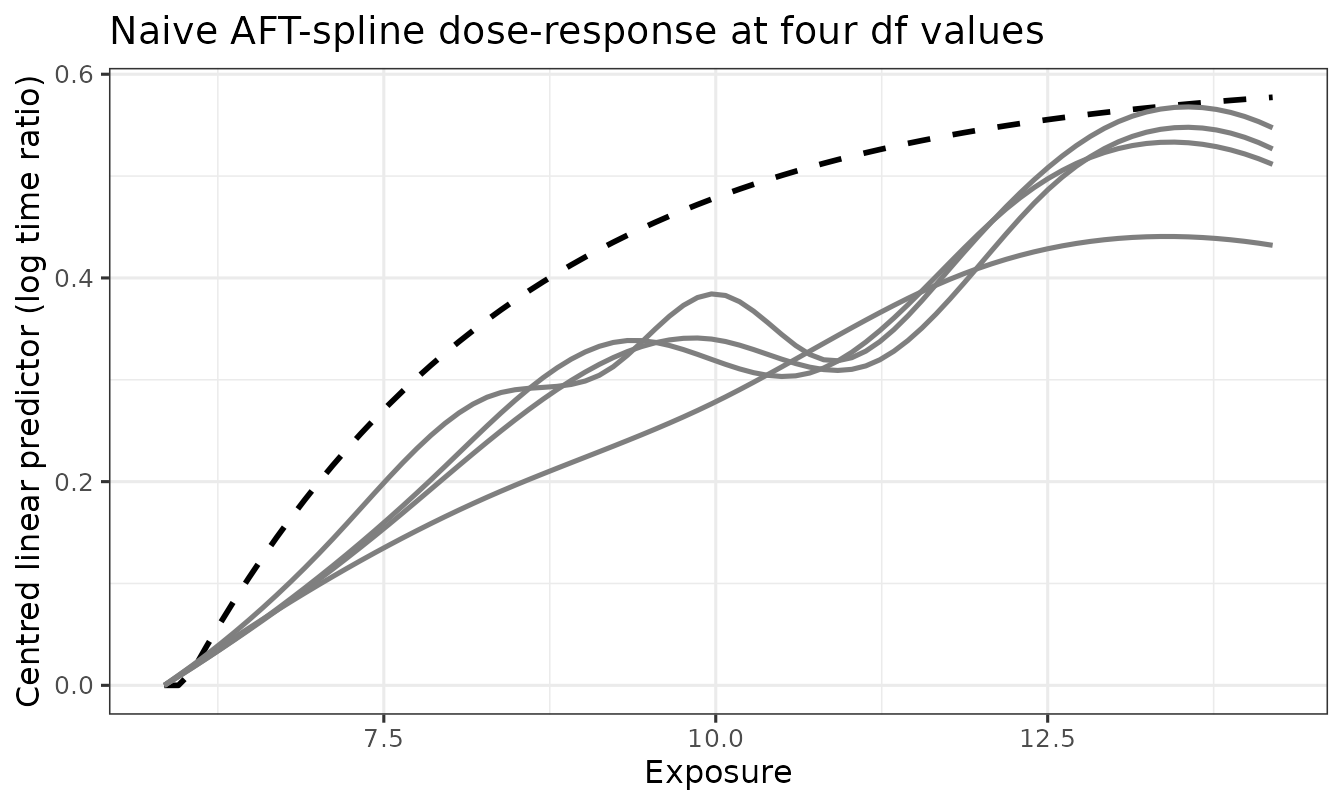
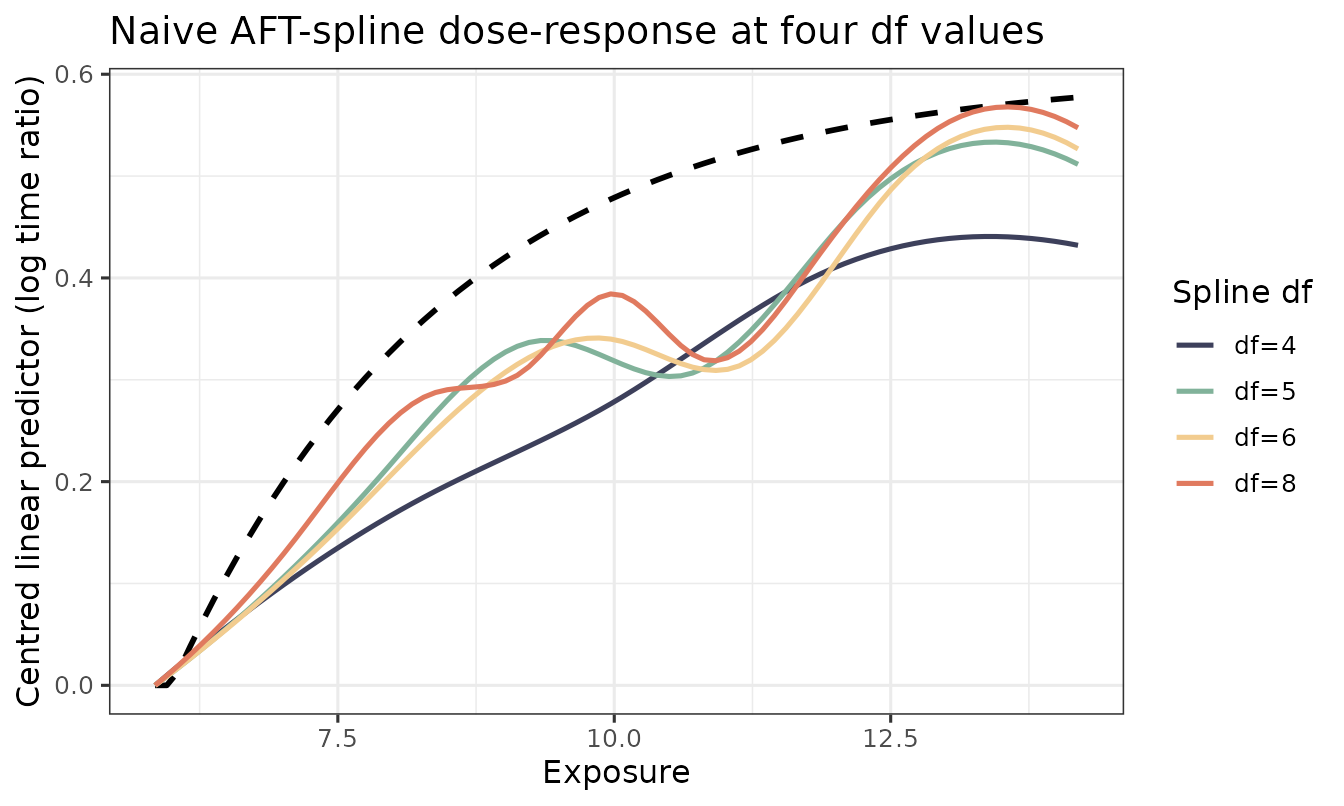
Deploying to gh-pages from @ QihuangZhang/aftsplex@91c02a28ec75cad7dcd761bc9a9617f481bcd8ae 🚀

diff --git a/articles/sensitivity-df.html b/articles/sensitivity-df.html
@@ -132,12 +132,14 @@ fit because higher <code>df</code> reduces smoothing bias for
 <span>  <span class="va">lp</span> <span class="op">-</span> <span class="va">lp</span><span class="op">[</span><span class="fl">1</span><span class="op">]</span></span>
 <span><span class="op">}</span><span class="op">)</span></span></code></pre></div>
 <div class="sourceCode" id="cb4"><pre class="downlit sourceCode r">
-<code class="sourceCode R"><span><span class="fu"><a href="../reference/plot_curves.html">plot_curves</a></span><span class="op">(</span><span class="va">x_grid</span>, <span class="va">truth</span>, fits <span class="op">=</span> <span class="va">curves</span>,</span>
-<span>            title <span class="op">=</span> <span class="st">"Naive AFT-spline dose-response at four df values"</span><span class="op">)</span></span>
-<span><span class="co">#&gt; Warning: No shared levels found between `names(values)` of the manual scale and the</span></span>
-<span><span class="co">#&gt; data's <span style="color: #00BB00;">colour</span> values.</span></span>
-<span><span class="co">#&gt; No shared levels found between `names(values)` of the manual scale and the</span></span>
-<span><span class="co">#&gt; data's <span style="color: #00BB00;">colour</span> values.</span></span></code></pre></div>
+<code class="sourceCode R"><span><span class="va">sp</span> <span class="op">&lt;-</span> <span class="fu"><a href="../reference/stagill_palette.html">stagill_palette</a></span><span class="op">(</span><span class="op">)</span></span>
+<span><span class="va">df_palette</span> <span class="op">&lt;-</span> <span class="fu"><a href="https://rdrr.io/r/stats/setNames.html" class="external-link">setNames</a></span><span class="op">(</span></span>
+<span>  <span class="fu"><a href="https://rdrr.io/r/base/unname.html" class="external-link">unname</a></span><span class="op">(</span><span class="va">sp</span><span class="op">[</span><span class="fu"><a href="https://rdrr.io/r/base/c.html" class="external-link">c</a></span><span class="op">(</span><span class="st">"TwilightIndigo"</span>, <span class="st">"MutedTeal"</span>, <span class="st">"ApricotCream"</span>, <span class="st">"BurntPeach"</span><span class="op">)</span><span class="op">]</span><span class="op">)</span>,</span>
+<span>  <span class="fu"><a href="https://rdrr.io/r/base/paste.html" class="external-link">paste0</a></span><span class="op">(</span><span class="st">"df="</span>, <span class="va">df_grid</span><span class="op">)</span></span>
+<span><span class="op">)</span></span>
+<span><span class="fu"><a href="../reference/plot_curves.html">plot_curves</a></span><span class="op">(</span><span class="va">x_grid</span>, <span class="va">truth</span>, fits <span class="op">=</span> <span class="va">curves</span>, colors <span class="op">=</span> <span class="va">df_palette</span>,</span>
+<span>            title <span class="op">=</span> <span class="st">"Naive AFT-spline dose-response at four df values"</span><span class="op">)</span> <span class="op">+</span></span>
+<span>  <span class="fu">ggplot2</span><span class="fu">::</span><span class="fu"><a href="https://ggplot2.tidyverse.org/reference/labs.html" class="external-link">labs</a></span><span class="op">(</span>color <span class="op">=</span> <span class="st">"Spline df"</span><span class="op">)</span></span></code></pre></div>
 <p><img src="sensitivity-df_files/figure-html/plot_df_grid-1.png" class="r-plt" alt="" width="672"></p>
 <p><strong>What to look for:</strong></p>
 <ul>
@@ -204,13 +206,14 @@ pipeline, but the result is much more informative for a reviewer.</p>
 <span><span class="op">}</span><span class="op">)</span></span>
 <span><span class="fu"><a href="https://rdrr.io/r/base/names.html" class="external-link">names</a></span><span class="op">(</span><span class="va">simex_curves</span><span class="op">)</span> <span class="op">&lt;-</span> <span class="fu"><a href="https://rdrr.io/r/base/paste.html" class="external-link">paste0</a></span><span class="op">(</span><span class="st">"df="</span>, <span class="va">df_show</span><span class="op">)</span></span>
 <span></span>
-<span><span class="fu"><a href="../reference/plot_curves.html">plot_curves</a></span><span class="op">(</span><span class="va">x_grid</span>, <span class="va">truth</span>, fits <span class="op">=</span> <span class="va">simex_curves</span>,</span>
+<span><span class="va">simex_palette</span> <span class="op">&lt;-</span> <span class="fu"><a href="https://rdrr.io/r/stats/setNames.html" class="external-link">setNames</a></span><span class="op">(</span></span>
+<span>  <span class="fu"><a href="https://rdrr.io/r/base/unname.html" class="external-link">unname</a></span><span class="op">(</span><span class="fu"><a href="../reference/stagill_palette.html">stagill_palette</a></span><span class="op">(</span><span class="op">)</span><span class="op">[</span><span class="fu"><a href="https://rdrr.io/r/base/c.html" class="external-link">c</a></span><span class="op">(</span><span class="st">"TwilightIndigo"</span>, <span class="st">"MutedTeal"</span>, <span class="st">"BurntPeach"</span><span class="op">)</span><span class="op">]</span><span class="op">)</span>,</span>
+<span>  <span class="fu"><a href="https://rdrr.io/r/base/names.html" class="external-link">names</a></span><span class="op">(</span><span class="va">simex_curves</span><span class="op">)</span></span>
+<span><span class="op">)</span></span>
+<span><span class="fu"><a href="../reference/plot_curves.html">plot_curves</a></span><span class="op">(</span><span class="va">x_grid</span>, <span class="va">truth</span>, fits <span class="op">=</span> <span class="va">simex_curves</span>, colors <span class="op">=</span> <span class="va">simex_palette</span>,</span>
 <span>            title <span class="op">=</span> <span class="fu"><a href="https://rdrr.io/r/base/paste.html" class="external-link">paste0</a></span><span class="op">(</span><span class="st">"SIMEX-corrected curve, df sensitivity around "</span>,</span>
-<span>                           <span class="va">df_star</span><span class="op">)</span><span class="op">)</span></span>
-<span><span class="co">#&gt; Warning: No shared levels found between `names(values)` of the manual scale and the</span></span>
-<span><span class="co">#&gt; data's <span style="color: #00BB00;">colour</span> values.</span></span>
-<span><span class="co">#&gt; No shared levels found between `names(values)` of the manual scale and the</span></span>
-<span><span class="co">#&gt; data's <span style="color: #00BB00;">colour</span> values.</span></span></code></pre></div>
+<span>                           <span class="va">df_star</span><span class="op">)</span><span class="op">)</span> <span class="op">+</span></span>
+<span>  <span class="fu">ggplot2</span><span class="fu">::</span><span class="fu"><a href="https://ggplot2.tidyverse.org/reference/labs.html" class="external-link">labs</a></span><span class="op">(</span>color <span class="op">=</span> <span class="st">"Spline df"</span><span class="op">)</span></span></code></pre></div>
 <p><img src="sensitivity-df_files/figure-html/simex_sensitivity-1.png" class="r-plt" alt="" width="672"></p>
 <p>If these three curves agree on the qualitative dose-response shape —
 where it rises, where it plateaus, where it is monotone — the

diff --git a/reference/plot_curves.html b/reference/plot_curves.html
@@ -58,7 +58,8 @@ the <code><a href="method_colors.html">method_colors()</a></code> palette by def
 <span>  title <span class="op">=</span> <span class="st">"AFT + spline dose-response"</span>,</span>
 <span>  x_lab <span class="op">=</span> <span class="st">"Exposure"</span>,</span>
 <span>  y_lab <span class="op">=</span> <span class="st">"Centred linear predictor (log time ratio)"</span>,</span>
-<span>  colors <span class="op">=</span> <span class="fu"><a href="method_colors.html">method_colors</a></span><span class="op">(</span><span class="op">)</span></span>
+<span>  colors <span class="op">=</span> <span class="fu"><a href="method_colors.html">method_colors</a></span><span class="op">(</span><span class="op">)</span>,</span>
+<span>  ci_color <span class="op">=</span> <span class="cn">NULL</span></span>
 <span><span class="op">)</span></span></code></pre></div>
     </div>
 
@@ -96,6 +97,13 @@ numeric vector of length <code>length(x_grid)</code>.</p></dd>
 <dt id="arg-colors">colors<a class="anchor" aria-label="anchor" href="#arg-colors"></a></dt>
 <dd><p>Optional named character vector of colours; defaults to
 <code><a href="method_colors.html">method_colors()</a></code> (matching <code>Naive</code>, <code>Oracle</code>, <code>SIMEX</code>).</p></dd>
+
+
+<dt id="arg-ci-color">ci_color<a class="anchor" aria-label="anchor" href="#arg-ci-color"></a></dt>
+<dd><p>Optional single colour for the confidence ribbon. If
+<code>NULL</code> (the default), uses <code>colors["SIMEX"]</code> when present (because the
+ribbon is typically a SIMEX bootstrap interval) and otherwise falls
+back to the first entry of <code>colors</code>.</p></dd>
 
 </dl></div>
     <div class="section level2">

diff --git a/articles/simulation-study.html b/articles/simulation-study.html
@@ -138,7 +138,7 @@ higher locally to reproduce.</p>
 <span><span class="va">elapsed</span> <span class="op">&lt;-</span> <span class="fu"><a href="https://rdrr.io/r/base/Sys.time.html" class="external-link">Sys.time</a></span><span class="op">(</span><span class="op">)</span> <span class="op">-</span> <span class="va">t0</span></span></code></pre></div>
 <div class="sourceCode" id="cb4"><pre class="downlit sourceCode r">
 <code class="sourceCode R"><span><span class="va">elapsed</span></span>
-<span><span class="co">#&gt; Time difference of 16.04921 secs</span></span></code></pre></div>
+<span><span class="co">#&gt; Time difference of 14.8418 secs</span></span></code></pre></div>
 </div>
 <div class="section level2">
 <h2 id="ise-summary">ISE summary<a class="anchor" aria-label="anchor" href="#ise-summary"></a>

diff --git a/articles/sensitivity-df.md b/articles/sensitivity-df.md
@@ -68,12 +68,14 @@ curves <- lapply(fits, function(f) {
 
 ``` r
 
-plot_curves(x_grid, truth, fits = curves,
-            title = "Naive AFT-spline dose-response at four df values")
-#> Warning: No shared levels found between `names(values)` of the manual scale and the
-#> data's colour values.
-#> No shared levels found between `names(values)` of the manual scale and the
-#> data's colour values.
+sp <- stagill_palette()
+df_palette <- setNames(
+  unname(sp[c("TwilightIndigo", "MutedTeal", "ApricotCream", "BurntPeach")]),
+  paste0("df=", df_grid)
+)
+plot_curves(x_grid, truth, fits = curves, colors = df_palette,
+            title = "Naive AFT-spline dose-response at four df values") +
+  ggplot2::labs(color = "Spline df")
 ```
 
 ![](sensitivity-df_files/figure-html/plot_df_grid-1.png)
@@ -144,13 +146,14 @@ simex_curves <- lapply(df_show, function(d) {
 })
 names(simex_curves) <- paste0("df=", df_show)
 
-plot_curves(x_grid, truth, fits = simex_curves,
+simex_palette <- setNames(
+  unname(stagill_palette()[c("TwilightIndigo", "MutedTeal", "BurntPeach")]),
+  names(simex_curves)
+)
+plot_curves(x_grid, truth, fits = simex_curves, colors = simex_palette,
             title = paste0("SIMEX-corrected curve, df sensitivity around ",
-                           df_star))
-#> Warning: No shared levels found between `names(values)` of the manual scale and the
-#> data's colour values.
-#> No shared levels found between `names(values)` of the manual scale and the
-#> data's colour values.
+                           df_star)) +
+  ggplot2::labs(color = "Spline df")
 ```
 
 ![](sensitivity-df_files/figure-html/simex_sensitivity-1.png)

diff --git a/reference/plot_curves.md b/reference/plot_curves.md
@@ -17,7 +17,8 @@ plot_curves(
   title = "AFT + spline dose-response",
   x_lab = "Exposure",
   y_lab = "Centred linear predictor (log time ratio)",
-  colors = method_colors()
+  colors = method_colors(),
+  ci_color = NULL
 )
 ```
 
@@ -55,6 +56,13 @@ plot_curves(
   Optional named character vector of colours; defaults to
   [`method_colors()`](https://qihuangzhang.github.io/aftsplex/reference/method_colors.md)
   (matching `Naive`, `Oracle`, `SIMEX`).
+
+- ci_color:
+
+  Optional single colour for the confidence ribbon. If `NULL` (the
+  default), uses `colors["SIMEX"]` when present (because the ribbon is
+  typically a SIMEX bootstrap interval) and otherwise falls back to the
+  first entry of `colors`.
 
 ## Value
 

diff --git a/articles/simulation-study.md b/articles/simulation-study.md
@@ -73,7 +73,7 @@ elapsed <- Sys.time() - t0
 ``` r
 
 elapsed
-#> Time difference of 16.04921 secs
+#> Time difference of 14.8418 secs
 ```
 
 ## ISE summary
